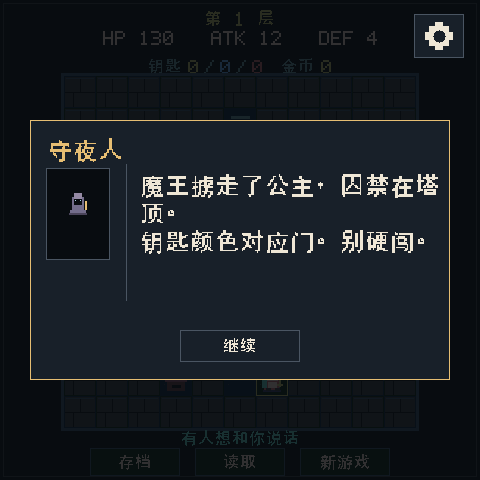
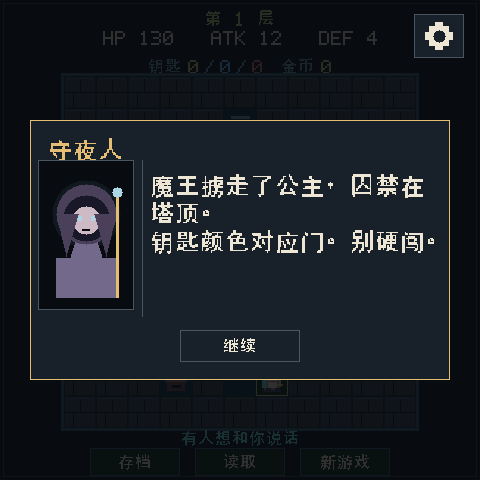
feat: enlarge NPC portrait and welcome typography (v1.5)
Use a 96x150 portrait in NPC dialogs, wrap Chinese text without leading closing punctuation, double the welcome header/version text and move the Ponkan credit under the header.

Changed region(s): [[0.0625, 0.3125, 0.9062, 0.6562]]

diff --git a/main/game_view.c b/main/game_view.c
@@ -229,6 +229,18 @@ static void ui_draw_cjk15(const char *text,int x,int y,Color color)
         x+=25;
     }
 }
+static bool closing_punctuation(uint32_t cp)
+{
+    switch(cp){
+    case 0x3002: case 0xFF0C: case 0xFF01: case 0xFF1F:
+    case 0xFF1B: case 0xFF1A: case 0x3001: case 0xFF09:
+    case 0x3011: case 0x300B: case 0x300D: case 0x300F:
+    case 0x2026:
+        return true;
+    default:
+        return false;
+    }
+}
 static int ui_draw_wrap_cjk(const char *text,int x,int y,int max_chars,
                             int line_height,Color color,int max_lines)
 {
@@ -236,13 +248,17 @@ static int ui_draw_wrap_cjk(const char *text,int x,int y,int max_chars,
     char line[128];
     int count=0,lines=0;
     while(*p&&lines<max_lines){
-        if(count==max_chars){
-            size_t n=(size_t)(p-start);
-            if(n>=sizeof(line)) n=sizeof(line)-1;
-            memcpy(line,start,n); line[n]=0;
-            ui_draw_cjk15(line,x,y,color);
-            y+=line_height; ++lines; start=p; count=0;
-            if(lines>=max_lines) break;
+        if(count>=max_chars){
+            const char *peek=p; uint32_t cp=0;
+            utf8_next(&peek,&cp);
+            if(!closing_punctuation(cp)){
+                size_t n=(size_t)(p-start);
+                if(n>=sizeof(line)) n=sizeof(line)-1;
+                memcpy(line,start,n); line[n]=0;
+                ui_draw_cjk15(line,x,y,color);
+                y+=line_height; ++lines; start=p; count=0;
+                if(lines>=max_lines) break;
+            }
         }
         const char *next=p; uint32_t cp;
         utf8_next(&next,&cp);
@@ -322,6 +338,26 @@ static void npc_sprite(int x,int y,uint32_t tick)
     DrawPixel(x+10,y+10+(tick/18)%2,glow); DrawPixel(x+15,y+10+(tick/18)%2,glow);
     DrawRectangle(x+4,y+23,18,2,(Color){74,70,90,255});
     DrawRectangle(x+20,y+11,2,9,BRASS);
+}
+static void npc_portrait(int x,int y,uint32_t tick)
+{
+    const Color hood={72,66,92,255}, trim={112,104,136,255};
+    const Color face={200,186,196,255}, dark={30,26,40,255};
+    const Color glow={172,214,224,255};
+    DrawCircle(x+48,y+54,34,Fade(glow,.08f));
+    DrawTriangle((Vector2){x+18,y+140},(Vector2){x+78,y+140},(Vector2){x+48,y+48},trim);
+    DrawRectangle(x+18,y+98,60,42,trim);
+    DrawCircle(x+48,y+54,30,hood);
+    DrawCircle(x+48,y+58,23,dark);
+    DrawCircle(x+48,y+60,14,face);
+    DrawRectangle(x+40,y+56+(tick/18)%2,4,5,glow);
+    DrawRectangle(x+53,y+56+(tick/18)%2,4,5,glow);
+    DrawRectangle(x+44,y+69,8,2,INK);
+    DrawTriangle((Vector2){x+18,y+54},(Vector2){x+28,y+96},(Vector2){x+40,y+54},hood);
+    DrawTriangle((Vector2){x+78,y+54},(Vector2){x+68,y+96},(Vector2){x+56,y+54},hood);
+    DrawRectangle(x+78,y+34,3,104,BRASS);
+    DrawCircle(x+79,y+32,5,glow);
+    DrawRectangle(x+14,y+138,68,4,INK);
 }
 static void wraith(int x,int y,uint32_t tick)
 {
@@ -535,7 +571,8 @@ static void title_label(const game_snapshot_t *s)
 }
 static void title(const game_snapshot_t *s)
 {
-    ascii_center("MOSAICO ORIGINAL",48,14,MUTED);
+    ascii_center("MOSAICO ORIGINAL",42,16,MUTED);
+    ascii_center("Created by Ponkan",62,16,MUTED);
     castle(135);
     title_label(s);
     ui_center(tx(s,&T_SUBTITLE),248,1,BRASS);
@@ -543,8 +580,7 @@ static void title(const game_snapshot_t *s)
     button(s,s->has_save?&T_CONTINUE:&T_NO_SAVE,140,326,200,34,false);
     ui_center(tx(s,&T_HINT1),383,1,MUTED);
     ui_center(tx(s,&T_HINT2),404,1,MUTED);
-    ascii_center("Created by Ponkan",428,14,MUTED);
-    ascii_center(GAME_VERSION,451,12,MUTED);
+    ascii_center(GAME_VERSION,448,16,MUTED);
 }
 static bool gain_message(const game_snapshot_t *s,char *out,size_t size,Color *color)
 {
@@ -580,10 +616,10 @@ static void story_modal(const game_snapshot_t *s)
     DrawRectangle(30,120,420,260,PANEL);
     DrawRectangleLines(30,120,420,260,BRASS);
     ui_draw_cjk15(tx(s,name),48,138,BRASS);
-    DrawRectangle(46,168,64,92,INK);
-    DrawRectangleLines(46,168,64,92,EDGE);
-    npc_sprite(65,190,0);
-    DrawLine(126,164,126,300,EDGE);
+    DrawRectangle(38,160,96,150,INK);
+    DrawRectangleLines(38,160,96,150,EDGE);
+    npc_portrait(38,160,s->tick);
+    DrawLine(142,160,142,316,EDGE);
     if(s->lang==GAME_LANG_EN){
         char paragraph[220];
         snprintf(paragraph,sizeof(paragraph),"%s %s",story->en[0],story->en[1]);
@@ -591,7 +627,7 @@ static void story_modal(const game_snapshot_t *s)
         int y=172;
         while(*p&&y<284){
             int take=0,last_space=0;
-            while(p[take]&&take<26){
+            while(p[take]&&take<24){
                 if(p[take]==' ') last_space=take;
                 ++take;
             }
@@ -599,14 +635,14 @@ static void story_modal(const game_snapshot_t *s)
             char line[40];
             int n=take<39?take:39;
             memcpy(line,p,(size_t)n); line[n]=0;
-            MosaicoFastDrawText(line,140+(310-MosaicoFastMeasureText(line,16))/2,y,16,WHITE_INK);
+            MosaicoFastDrawText(line,150+(290-MosaicoFastMeasureText(line,16))/2,y,16,WHITE_INK);
             p+=take;
             while(*p==' ') ++p;
             y+=22;
         }
     } else {
-        const int first_lines=ui_draw_wrap_cjk(story->zh[0],140,174,12,28,WHITE_INK,2);
-        ui_draw_wrap_cjk(story->zh[1],140,174+first_lines*28,12,28,WHITE_INK,2);
+        const int first_lines=ui_draw_wrap_cjk(story->zh[0],150,174,11,28,WHITE_INK,2);
+        ui_draw_wrap_cjk(story->zh[1],150,174+first_lines*28,11,28,WHITE_INK,2);
     }
     button(s,&T_TALK_CONTINUE,180,330,120,32,false);
 }

diff --git a/main/game_config.h b/main/game_config.h
@@ -1,7 +1,7 @@
 // SPDX-License-Identifier: MIT
 #pragma once
 #define GAME_NAME "magic_tower"
-#define GAME_VERSION "v1.4"
+#define GAME_VERSION "v1.5"
 /* Operation-driven rendering; this is the maximum active update cadence.
  * Held-key repetition is expressed relative to this rate. */
 enum { GAME_WIDTH = 480, GAME_HEIGHT = 480, GAME_TICK_HZ = 15 };

diff --git a/CHANGELOG.md b/CHANGELOG.md
@@ -1,5 +1,23 @@
 # Changelog
 
+## v1.5 — 2026-10-18
+
+### Changed
+
+- The welcome page renders “MOSAICO ORIGINAL”, the Ponkan credit and the
+  version at double size; the credit moved directly under the header.
+- NPC dialogue now uses a 96×150 portrait that fills the left column instead of
+  the previous 26×26 map sprite, so the character occupies a meaningful share
+  of the dialog. The 24 px Chinese text area was narrowed to 11 characters per
+  line and now avoids starting a line with closing punctuation.
+
+### Validation
+
+- Settings and NPC screens re-rendered from the shared C renderer; model and
+  glyph tests pass.
+- Installed through the official app-update path and validated healthy; v1.5
+  is the current device build.
+
 ## v1.4 — 2026-10-18
 
 ### Fixed

diff --git a/README.md b/README.md
@@ -4,7 +4,7 @@ A ten-floor Magic Tower game for the **ESP-Mosaico** handheld (ESP32-S31, 480×4
 
 The game is a compact, original take on the classic key-and-door dungeon formula: deterministic combat previews, coloured keys, shops, NPC story scenes, an original generated soundtrack, and a crisp pixel UI rendered entirely in code.
 
-Current release: **v1.4** — see [CHANGELOG.md](CHANGELOG.md).
+Current release: **v1.5** — see [CHANGELOG.md](CHANGELOG.md).
 
 ![Title screen](docs/images/title.png)
 
